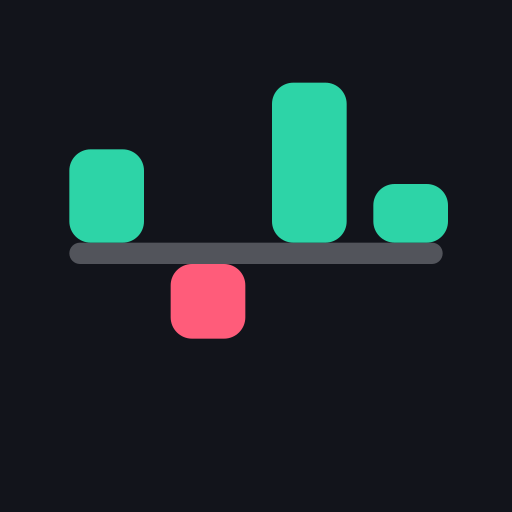
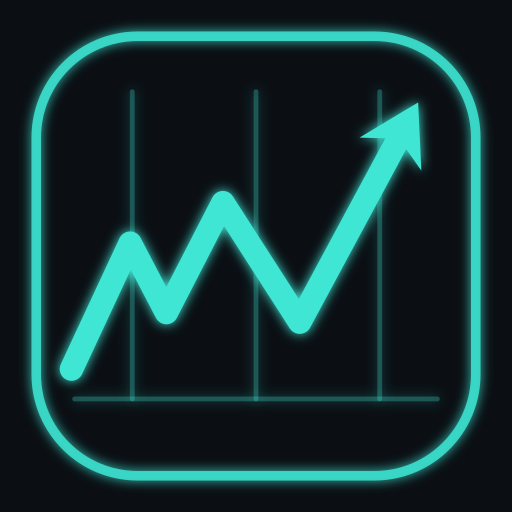
Redraw the mark as the rising line and arrow
Omer asked for this artwork everywhere the app shows an icon. It replaces the
R-strip — four bars around a zero line — in all four places at once: the favicon,
the component in the app header and on the sign-in card, and the three PNGs the
home screen and Android read.

Drawn as SVG rather than dropped in as the supplied raster. A bitmap would have
had to be resized into a tab strip and a 36px header, and the component takes its
colour from `--tri-brand`, so the mark follows light and dark the way every other
teal thing in the product does — a baked-in neon on a white page is the one place
this artwork does not work. The vector also stays the single source the PNGs are
generated from.

Three passes to get the head right, and the notes record why. A flat-backed
triangle reads as a pennant on a pole at this angle — the last leg climbs at
about sixty degrees — and the eye has to stop and work out which way it points.
The notch in its back is what makes it an arrow, and it is the one piece of
detail here worth what it costs when small. Before that the head was small enough
that the line's own round cap escaped underneath it, which looked like a smudge.

The glow is a `drop-shadow` on the element rather than an SVG filter. A filter
needs an `id`, and this renders twice on the sign-in page — header and card — so
a filter would have meant two elements sharing one id: markup that happens to
work rather than markup that is right.
[…]

diff --git a/src/components/brand/logo.tsx b/src/components/brand/logo.tsx
@@ -1,27 +1,28 @@
 /**
- * The TRi mark: the R-strip.
+ * The TRi mark: a rising line with an arrow, inside its own frame.
  *
- * The strip is the product's signature element — one column per trading day, winners growing
- * up from a centre line and losers down — and it is the one picture no other trading app
- * shows. So the mark is not a picture *of* the product, it is a small piece of it: four days,
- * three green and one red, around the zero line.
+ * Four days and a breakout, plotted on a grid — the picture the product is about, drawn the
+ * way the dashboard draws it: the run is not a clean ascent, it dips twice on the way, and the
+ * arrow only leaves at the end. A mark showing an unbroken climb would be the one thing a
+ * trading journal must never claim.
  *
- * Two earlier marks were rejected on the way here, both for the same reason. Three letters in
- * a gradient square is a placeholder: at 36px the middle letter is four pixels wide and the
- * mark only repeats the wordmark beside it. Three ascending bars is better drawn, but it is
- * the most common image in finance and says nothing this product does that others do not.
+ * The geometry here and in `src/app/icon.svg` is the same drawing, and the two are kept in
+ * step by hand: a favicon has no page to read a CSS variable from, so that file bakes the teal
+ * in and carries a dark tile the browser's tab strip cannot supply. `scripts/render-icons.mjs`
+ * turns that file into the PNGs iOS and Android need, so a change made here has to be made
+ * there and re-rendered — three copies, and this comment is the only thing holding them
+ * together.
  *
- * No tile. A rounded square behind the bars puts an indigo ground under green and red, which
- * muddies both, and the tile was only ever there to give the letters something to sit on.
- * Without it the mark is the data, and it takes the page's own background.
+ * Colour comes from the theme's own token rather than frozen hex, so the mark follows light
+ * and dark. The glow is a `drop-shadow` on the element instead of an SVG filter: a filter
+ * needs an `id`, this renders in two places on the same page — the app header and the sign-in
+ * screen — and two elements sharing an id is markup that happens to work rather than markup
+ * that is right.
  *
- * Colour comes from the theme's own tokens — the same green and red every profit and loss in
- * the product is drawn in — so the mark follows light and dark rather than carrying frozen
- * hex. `src/app/icon.svg` is the same drawing with the dark values baked in, because a file
- * served as a favicon has no page to read a variable from; the two are kept in step by hand.
- *
- * At 16px it is four marks around a rule. That is the trade this direction makes: less legible
- * in a browser tab than a solid tile, and unmistakable everywhere else.
+ * At 16px it is a teal smudge with a hint of a climb in it. That is the trade this artwork
+ * makes and it is a real one: the mark it replaced was drawn to survive a browser tab and this
+ * one is not. Everywhere it is actually looked at — a home screen, a header, a sign-in card —
+ * it is unmistakable, and a favicon is the one place nobody is looking.
  */
 export function TriMark({ size = 36, className = '' }: { size?: number; className?: string }) {
   return (
@@ -32,30 +33,50 @@ export function TriMark({ size = 36, className = '' }: { size?: number; classNam
       className={className}
       role="img"
       aria-label="TRi"
+      style={{
+        filter: 'drop-shadow(0 0 2px color-mix(in oklab, var(--tri-brand) 55%, transparent))',
+      }}
     >
-      {/* The zero line, in the interface's own text colour at a low opacity — the same way the
-          strip draws it on the dashboard, where it separates a green day from a red one. */}
-      <rect x="2" y="22.75" width="44" height="2" rx="1" fill="currentColor" fillOpacity="0.3" />
+      {/* The frame. Inset far enough that the glow has somewhere to go. */}
+      <rect
+        x="3.4"
+        y="3.4"
+        width="41.2"
+        height="41.2"
+        rx="9.5"
+        fill="none"
+        stroke="var(--tri-brand)"
+        strokeOpacity="0.85"
+        strokeWidth="0.9"
+      />
+
+      {/* The paper: a baseline and three verticals, kept well under the line so they read as a
+          grid rather than as more data. */}
+      <g stroke="var(--tri-brand)" strokeOpacity="0.28" strokeWidth="0.45" strokeLinecap="round">
+        <path d="M7 37.4H41" />
+        <path d="M12.4 8.6V37.4M24 8.6V37.4M35.6 8.6V37.4" />
+      </g>
+
+      {/* Round joins, because at this size a mitre on a 130° turn grows a spike longer than the
+          stroke is wide. */}
+      <path
+        d="M6.7 34.6 12.2 22.8 15.6 29.3 20.9 19 28.1 30.2 37.2 13.3"
+        fill="none"
+        stroke="var(--tri-brand)"
+        strokeWidth="2.2"
+        strokeLinecap="round"
+        strokeLinejoin="round"
+      />
 
       {/*
-       * Four days, sitting on the line rather than crossing it: a winner's base is the line's
-       * top edge, a loser's is its bottom.
+       * The head, with a notch in its back.
        *
-       * `rx` is 2 on a 9-wide bar — the same soft corner the strip itself uses on the
-       * dashboard. Rounding to half the width was tried first and turned the mark into four
-       * lozenges: the short bars became dots, the red one a pill, and the row of columns read
-       * as scattered confetti rather than as days on an axis.
-       *
-       * They fill the box, too. The first cut used two thirds of the width and height, which
-       * left half the square empty and made the mark a smudge beside a bold wordmark.
-       *
-       * The shape is a month worth having — two good days, one small, one bad — because a mark
-       * showing four winners would be the one thing a trading journal must never claim.
+       * A flat-backed triangle was tried first. At this angle — the last leg climbs at about
+       * sixty degrees — a straight back reads as a pennant on a pole rather than as an arrow,
+       * and the eye takes a moment to work out which way it points. The notch is what makes it
+       * unmistakable, and it is the one piece of detail here worth what it costs when small.
        */}
-      <rect x="2.25" y="13" width="9" height="9.75" rx="2" fill="var(--tri-pos)" />
-      <rect x="13.75" y="24.75" width="9" height="8" rx="2" fill="var(--tri-neg)" />
-      <rect x="25.25" y="6" width="9" height="16.75" rx="2" fill="var(--tri-pos)" />
-      <rect x="36.75" y="16.75" width="9" height="6" rx="2" fill="var(--tri-pos)" />
+      <path d="M39.2 9.6 39.5 16 37.4 13 33.7 12.9Z" fill="var(--tri-brand)" />
     </svg>
   );
 }

diff --git a/src/app/manifest.ts b/src/app/manifest.ts
@@ -31,7 +31,7 @@ export default function manifest(): MetadataRoute.Manifest {
      * it is on screen the icon sits in the middle of it, and a page-coloured splash puts a
      * near-black tile on a slightly different near-black.
      */
-    background_color: '#12141b',
+    background_color: '#0b0f14',
     // …whereas this one is the page, because it tints the chrome *around* the running app.
     theme_color: '#0b1017',
     orientation: 'portrait',
